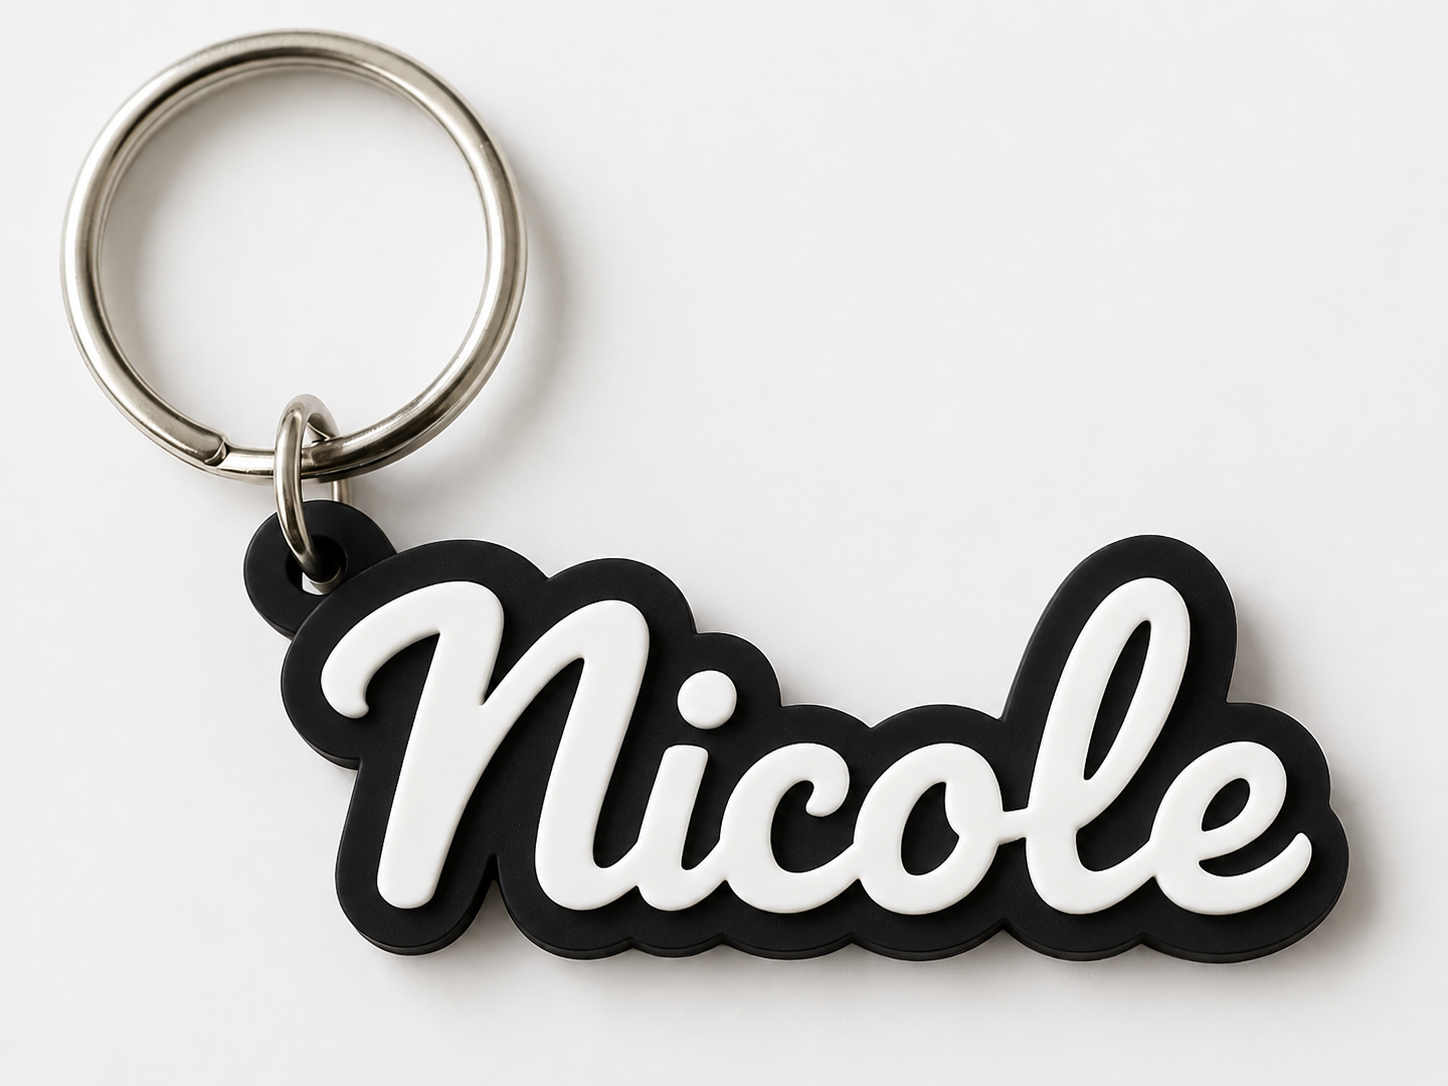
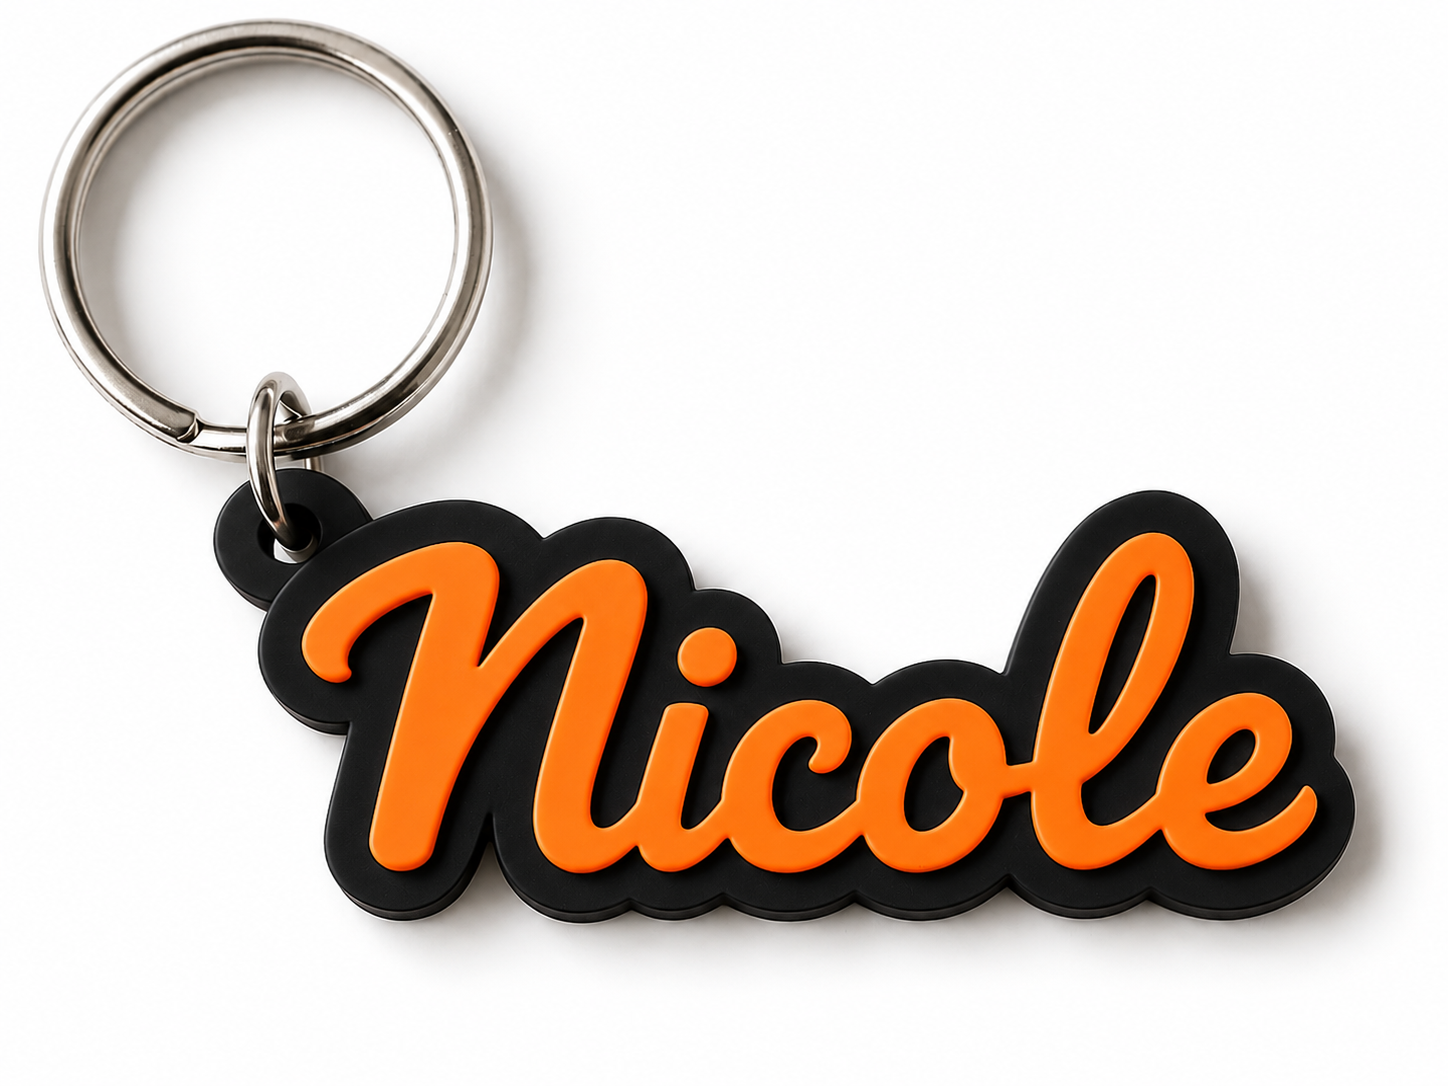
Chnages image

diff --git a/launch_announcement_email.html b/launch_announcement_email.html
@@ -1,0 +1,81 @@
+<!--
+  Tork3D — "We're open" launch announcement for early-access coupon signups.
+
+  PERSONALIZE per recipient before sending — replace these placeholders:
+    {{name}}            → recipient's first name        (e.g. Nicole)
+    {{coupon_code}}     → their personal code           (e.g. TORK10-NA4HVC)
+    {{unsubscribe_url}} → unsubscribe link (marketing email — keep this)
+
+  Subject line suggestion:
+    We're open, {{name}} — your Tork3D coupon is live 🎉
+-->
+<!DOCTYPE html>
+<html lang="en">
+<head>
+  <meta charset="utf-8" />
+  <meta name="viewport" content="width=device-width, initial-scale=1.0" />
+  <title>Tork3D is open</title>
+</head>
+<body style="margin:0;padding:0;background:#000000;">
+  <!-- Outer wrapper keeps the dark background in clients that strip body styles -->
+  <table role="presentation" width="100%" cellpadding="0" cellspacing="0" style="background:#000000;">
+    <tr>
+      <td align="center" style="padding:24px 12px;">
+
+        <div style="font-family:'Segoe UI',Arial,sans-serif;background:#0f0f0f;padding:32px;border-radius:12px;max-width:560px;margin:auto;text-align:left;">
+          <p style="margin:0 0 4px;font-size:12px;letter-spacing:2px;text-transform:uppercase;color:#F97316;font-weight:700;">Tork3D</p>
+          <h1 style="margin:0 0 8px;font-size:24px;color:#ffffff;font-weight:800;">We're open, {{name}}! 🎉</h1>
+          <p style="margin:0 0 24px;color:#cccccc;font-size:14px;line-height:1.6;">
+            Thanks for waiting through our break. The store is now <strong style="color:#ffffff;">live</strong> — and the coupon we saved for you is ready to use at checkout.
+          </p>
+
+          <!-- Coupon block -->
+          <div style="background:#1a1a1a;border-radius:8px;padding:20px;margin-bottom:16px;text-align:center;">
+            <p style="margin:0 0 8px;font-size:11px;color:#F97316;text-transform:uppercase;letter-spacing:1px;">Your Coupon Code</p>
+            <p style="margin:0;font-size:26px;font-weight:800;letter-spacing:3px;color:#ffffff;">{{coupon_code}}</p>
+          </div>
+
+          <!-- What they get -->
+          <div style="background:#1a1a1a;border-radius:8px;padding:16px;margin-bottom:24px;">
+            <p style="margin:0 0 10px;font-size:11px;color:#F97316;text-transform:uppercase;letter-spacing:1px;">What you signed up for</p>
+            <ul style="margin:0;padding-left:18px;color:#cccccc;font-size:14px;line-height:1.8;">
+              <li>🏷 <strong style="color:#ffffff;">10% off</strong> your order (valid on orders above &#8377;350)</li>
+              <li>🎁 A <strong style="color:#ffffff;">free name keychain</strong>, engraved with the name of your choice</li>
+            </ul>
+          </div>
+
+          <!-- CTA -->
+          <table role="presentation" cellpadding="0" cellspacing="0" style="margin:0 auto 24px;">
+            <tr>
+              <td align="center" bgcolor="#F97316" style="border-radius:8px;">
+                <a href="https://www.tork3d.in" target="_blank"
+                   style="display:inline-block;padding:14px 36px;font-family:'Segoe UI',Arial,sans-serif;font-size:16px;font-weight:700;color:#ffffff;text-decoration:none;border-radius:8px;">
+                  Shop now &rarr;
+                </a>
+              </td>
+            </tr>
+          </table>
+
+          <!-- How to redeem -->
+          <p style="margin:0 0 4px;font-size:11px;color:#F97316;text-transform:uppercase;letter-spacing:1px;">How to use it</p>
+          <p style="margin:0 0 24px;color:#cccccc;font-size:14px;line-height:1.7;">
+            Add your favourites to the cart, enter <strong style="color:#ffffff;">{{coupon_code}}</strong> in the coupon box at checkout, and your discount plus the free keychain are applied automatically.
+          </p>
+
+          <p style="margin:0;color:#999999;font-size:13px;line-height:1.6;">
+            Questions about your order? Just reply to this email or reach us on WhatsApp — we're happy to help.
+          </p>
+
+          <!-- Footer -->
+          <hr style="border:none;border-top:1px solid #2a2a2a;margin:24px 0 16px;" />
+          <p style="margin:0;font-size:11px;color:#555555;line-height:1.6;">
+            You're receiving this because you signed up for early access at Tork3D.
+            <a href="{{unsubscribe_url}}" style="color:#777777;text-decoration:underline;">Unsubscribe</a>.
+          </p>
+        </div>
+
+      </td>
+    </tr>
+  </table>
+</body>
+</html>
